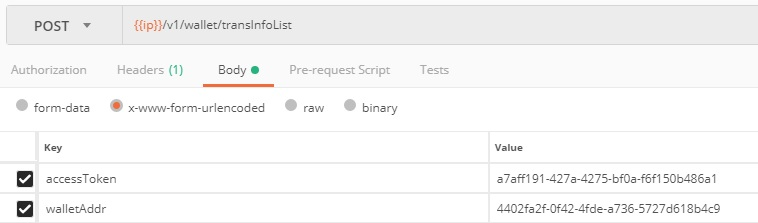
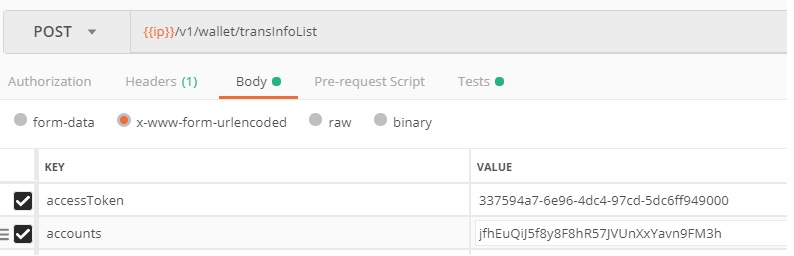
adjust

diff --git a/doc/v0.9.9/chapter03.md b/doc/v0.9.9/chapter03.md
@@ -360,7 +360,7 @@
 - 请求示例代码：
 ---
 ```
-/v1/wallet/balances?accessToken=a7aff191-427a-4275-bf0a-f6f150b486a1&walletAddr=4ed93afd-47bf-43cb-8fd9-ed8ed3c7affe&chainCode=moac&tokenCode=MOAC
+/v1/wallet/balances?accessToken=480b668b-fde4-498a-8235-366c11d061b5&walletAddr=ea8ad52c-9bc4-45e6-b766-f7cb2dd0b65e&chainCode=jingtumTest&tokenCode=SWT
 ```
 - 结果返回参数：
   
@@ -374,6 +374,7 @@
 |data.userId|String|用户Id|
 |data.balances|list|余额数据|
 |data.balances.tokenCode|String|通证编码|
+|data.balances.address|String|账户地址|
 |data.balances.balance|String|余额|
 |data.balances.chainCode|String|区块链编码|
 |data.balances.freezed|String|冻结的金额|
@@ -389,14 +390,15 @@
     "data": {
         "balances": [
             {
-                "tokenCode": "MOAC",
-                "balance": "0.00095092",
-                "chainCode": "moac",
-                "freezed": "0"
+                "tokenCode": "SWT",
+                "address": "jUKvKhfriUQABjMhkAB4EwcSziUXcmdfL9",
+                "balance": "34.9897",
+                "chainCode": "jingtumTest",
+                "freezed": "20"
             }
         ],
-        "walletAddr": "4ed93afd-47bf-43cb-8fd9-ed8ed3c7affe",
-        "userId": "1009273874782617600"
+        "walletAddr": "ea8ad52c-9bc4-45e6-b766-f7cb2dd0b65e",
+        "userId": "1026998220116459520"
     },
     "message": "",
     "success": true
@@ -499,7 +501,7 @@
 - 请求示例代码：
 ---
 ```
-/v1/wallet/transInfoList?accessToken=a7aff191-427a-4275-bf0a-f6f150b486a1&walletAddr=4402fa2f-0f42-4fde-a736-5727d618b4c9
+/v1/wallet/transInfoList?accessToken=337594a7-6e96-4dc4-97cd-5dc6ff949000&accounts=jfhEuQiJ5f8y8F8hR57JVUnXxYavn9FM3h
 ```
 
 - 结果返回参数：  
@@ -520,6 +522,7 @@
 |data.results.gasFee|Double|交易费用|
 |data.results.chainCode|String|区块链编码|
 |data.results.memos|String|记录内容|
+|data.results.bizId|String|业务Id|
 |data.results.destAccount|String|接受方的账户|
 |data.results.state|Integer|状态（-1：失败；0：初始；1：等待；8：同步成功；9：成功）|
 |data.results.srcAccount|String|发起方的账户|
@@ -540,16 +543,17 @@
         "pageNum": 1,
         "results": [
             {
-                "tokenCode": "MOAC",
-                "tradeTime": 1529487709000,
-                "amount": "0.000001",
-                "gasFee": 0.0000726,
-                "chainCode": "moac",
-                "memos": "wallet transfer 0.000001moac",
-                "destAccount": "0x9430e338712f4c1026ab181ef01409a06ab73eb7",
+                "tokenCode": "SWT",
+                "tradeTime": 1532861464000,
+                "amount": "35",
+                "gasFee": "0.01",
+                "chainCode": "jingtum",
+                "memos": "SWT INIT",
+                "bizId": "1532861464298",
+                "destAccount": "jfhEuQiJ5f8y8F8hR57JVUnXxYavn9FM3h",
                 "state": 9,
[1 lines of base64/hex data omitted]
-                "srcAccount": "0x08bad40508a3169a3a2e9caa36fa20ef7bd98535"
[1 lines of base64/hex data omitted]
+                "srcAccount": "jB4MR8wQAbSECLtTXnaerFEoYvE7qvHNrh"
             }
         ]
     },

diff --git a/doc/v0.9.9/chapter04.md b/doc/v0.9.9/chapter04.md
@@ -416,7 +416,7 @@ account=jDjnjvH62qbFy2SWFZX8S373wqoLJ8MWRa&chainCode=jingtum&tranHash=D56E173D86
 - 请求示例代码：
 ---
 ```
-/v1/account/transInfoList?account=0x08bad40508a3169a3a2e9caa36fa20ef7bd98535&pagesize=1&pagenum=1
+/v1/account/transInfoList?account=jfhEuQiJ5f8y8F8hR57JVUnXxYavn9FM3h
 ```
 
 - 结果返回参数： 
@@ -437,6 +437,7 @@ account=jDjnjvH62qbFy2SWFZX8S373wqoLJ8MWRa&chainCode=jingtum&tranHash=D56E173D86
 |data.results.gasFee|String|交易费用|
 |data.results.chainCode|String|区块链编码|
 |data.results.memos|String|记录内容|
+|data.results.bizId|String|业务Id|
 |data.results.destAccount|String|接受方的账户|
 |data.results.state|String|状态（-1：失败；0：初始；1：等待；8：同步成功；9：成功）|
 |data.results.srcAccount|String|支付方的账户|
@@ -452,21 +453,22 @@ account=jDjnjvH62qbFy2SWFZX8S373wqoLJ8MWRa&chainCode=jingtum&tranHash=D56E173D86
 {
     "code": "200",
     "data": {
-        "total": 2,
-        "pageSize": 1,
+        "total": 1,
+        "pageSize": 10,
         "pageNum": 1,
         "results": [
             {
-                "tokenCode": "MOAC",
-                "tradeTime": 1529478425000,
-                "amount": "0.00001",
-                "gasFee": 0.000025,
-                "chainCode": "moac",
-                "memos": null,
-                "destAccount": "0x08bad40508a3169a3a2e9caa36fa20ef7bd98535",
+                "tokenCode": "SWT",
+                "tradeTime": 1532861464000,
+                "amount": "35",
+                "gasFee": "0.01",
+                "chainCode": "jingtum",
+                "memos": "SWT INIT",
+                "bizId": "1532861464298",
+                "destAccount": "jfhEuQiJ5f8y8F8hR57JVUnXxYavn9FM3h",
                 "state": 9,
[1 lines of base64/hex data omitted]
-                "srcAccount": "0x32d012e43fdc978260cee98f5f6899a6cb18a148"
[1 lines of base64/hex data omitted]
+                "srcAccount": "jB4MR8wQAbSECLtTXnaerFEoYvE7qvHNrh"
             }
         ]
     },

diff --git a/doc/v0.9.9/chapter06.md b/doc/v0.9.9/chapter06.md
@@ -175,7 +175,7 @@
 - 请求示例代码：
 ---  
 ```
-/v1/text/recordInfoList?accessToken=a7aff191-427a-4275-bf0a-f6f150b486a1&walletAddr=4ed93afd-47bf-43cb-8fd9-ed8ed3c7affe&pagesize=1
+/v1/text/recordInfoList?accessToken=337594a7-6e96-4dc4-97cd-5dc6ff949000&accounts=jfhEuQiJ5f8y8F8hR57JVUnXxYavn9FM3h
 ```
 
 - 结果返回参数： 
@@ -196,6 +196,7 @@
 |data.results.gasFee|String|交易费用|
 |data.results.chainCode|String|区块链编码|
 |data.results.memos|String|记录内容|
+|data.results.bizId|String|业务Id|
 |data.results.destAccount|String|接受方的账户|
 |data.results.state|Integer|状态（-1：失败；0：初始；1：等待；8：同步成功；9：成功|
 |data.results.srcAccount|String|发起方的账户|
@@ -211,21 +212,22 @@
 {
     "code": "200",
     "data": {
-        "total": 4,
-        "pageSize": 1,
+        "total": 1,
+        "pageSize": 10,
         "pageNum": 1,
         "results": [
             {
-                "tokenCode": "MOAC",
-                "tradeTime": 1529490361000,
-                "amount": "0",
-                "gasFee": 0.0000522,
-                "chainCode": "moac",
-                "memos": "moac_text_record",
-                "destAccount": "0x9430e338712f4c1026ab181ef01409a06ab73eb7",
+                "tokenCode": "SWT",
+                "tradeTime": 1532861464000,
+                "amount": "35",
+                "gasFee": "0.01",
+                "chainCode": "jingtum",
+                "memos": "SWT INIT",
+                "bizId": "1532861464298",
+                "destAccount": "jfhEuQiJ5f8y8F8hR57JVUnXxYavn9FM3h",
                 "state": 9,
[1 lines of base64/hex data omitted]
-                "srcAccount": "0x08bad40508a3169a3a2e9caa36fa20ef7bd98535"
[1 lines of base64/hex data omitted]
+                "srcAccount": "jB4MR8wQAbSECLtTXnaerFEoYvE7qvHNrh"
             }
         ]
     },
